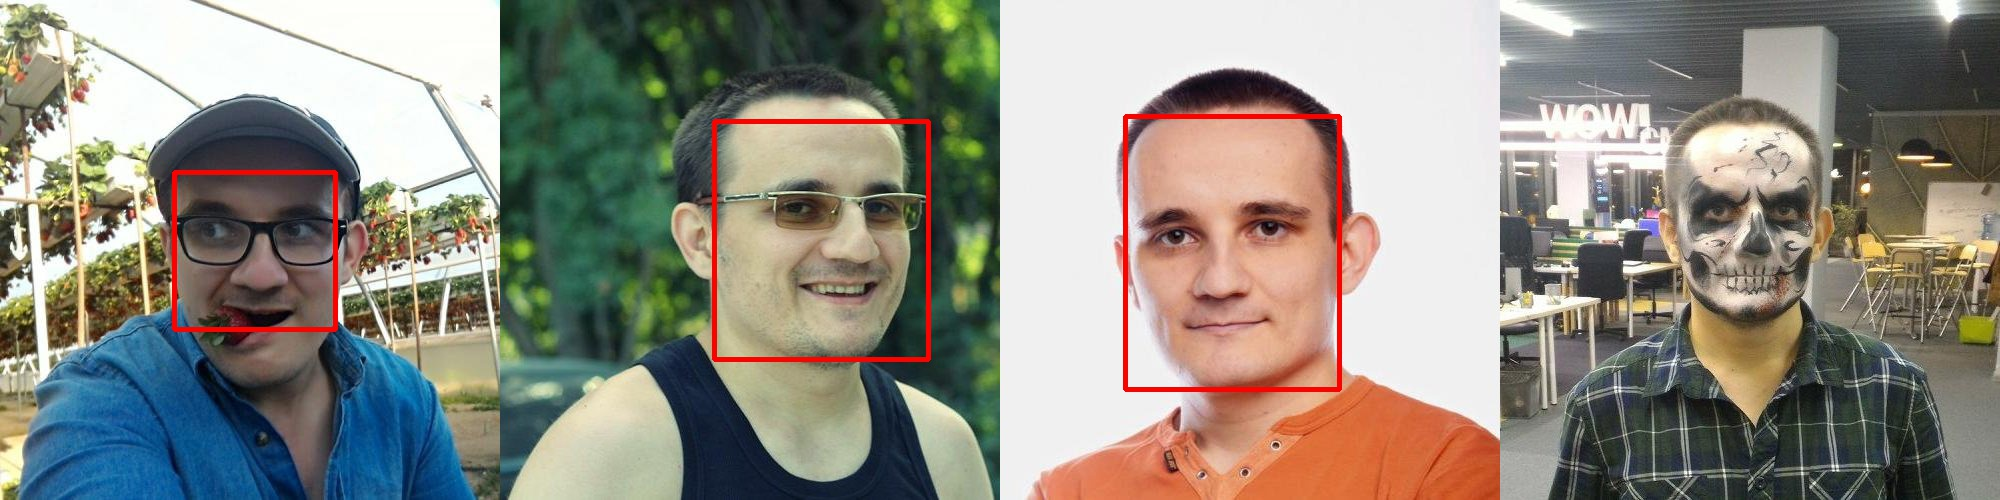
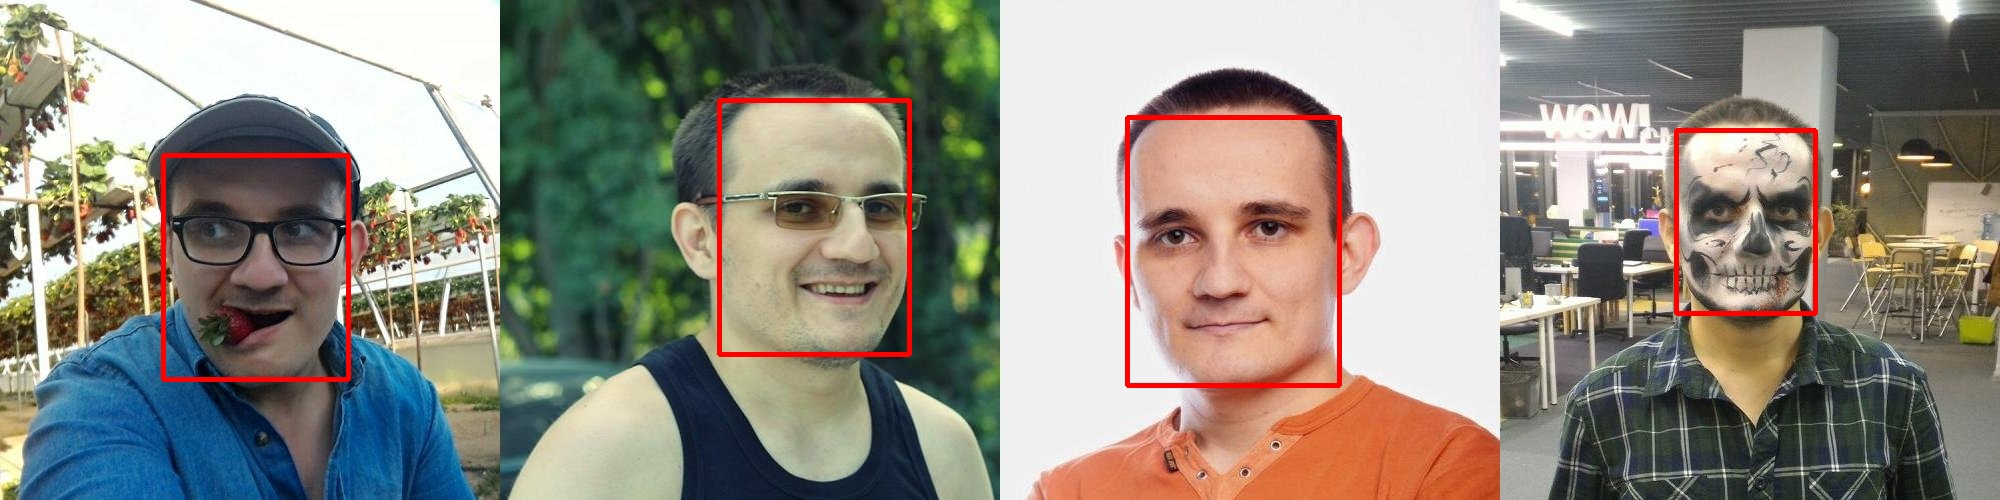
fixed detect face by dnn ssd

diff --git a/detect_face_by_dnn_ssd.php b/detect_face_by_dnn_ssd.php
@@ -5,8 +5,13 @@ use function CV\{imread, imwrite, rectangle};
 
 
 $src = imread("images/faces.jpg");
+$size = $src->size(); // 2000x500
 
-$blob = \CV\DNN\blobFromImage($src, 1, new Size(300, 300), new Scalar(104, 177, 123), true, false);
+$minSide = min($size->width, $size->height);
+$divider = $minSide / 300;
+\CV\resize($src, $resized, new Size($size->width / $divider, $size->height / $divider)); // 1200x300
+
+$blob = \CV\DNN\blobFromImage($resized, 1, new Size(), new Scalar(104, 177, 123), true, false);
 
 $net = \CV\DNN\readNetFromCaffe('models/ssd/res10_300x300_ssd_deploy.prototxt', 'models/ssd/res10_300x300_ssd_iter_140000.caffemodel');
 
@@ -19,8 +24,8 @@ var_export($r->shape);
 $scalar = new Scalar(0, 0, 255);
 for ($i = 0; $i < $r->shape[2]; $i++) {
     $confidence = $r->atIdx([0,0,$i,2]);
-    //var_export($confidence);echo "\n";
-    if ($confidence > 0.2) {
+    if ($confidence > 0.9) {
+        var_export($confidence);echo "\n";
         $startX = $r->atIdx([0,0,$i,3]) * $src->cols;
         $startY = $r->atIdx([0,0,$i,4]) * $src->rows;
         $endX = $r->atIdx([0,0,$i,5]) * $src->cols;
